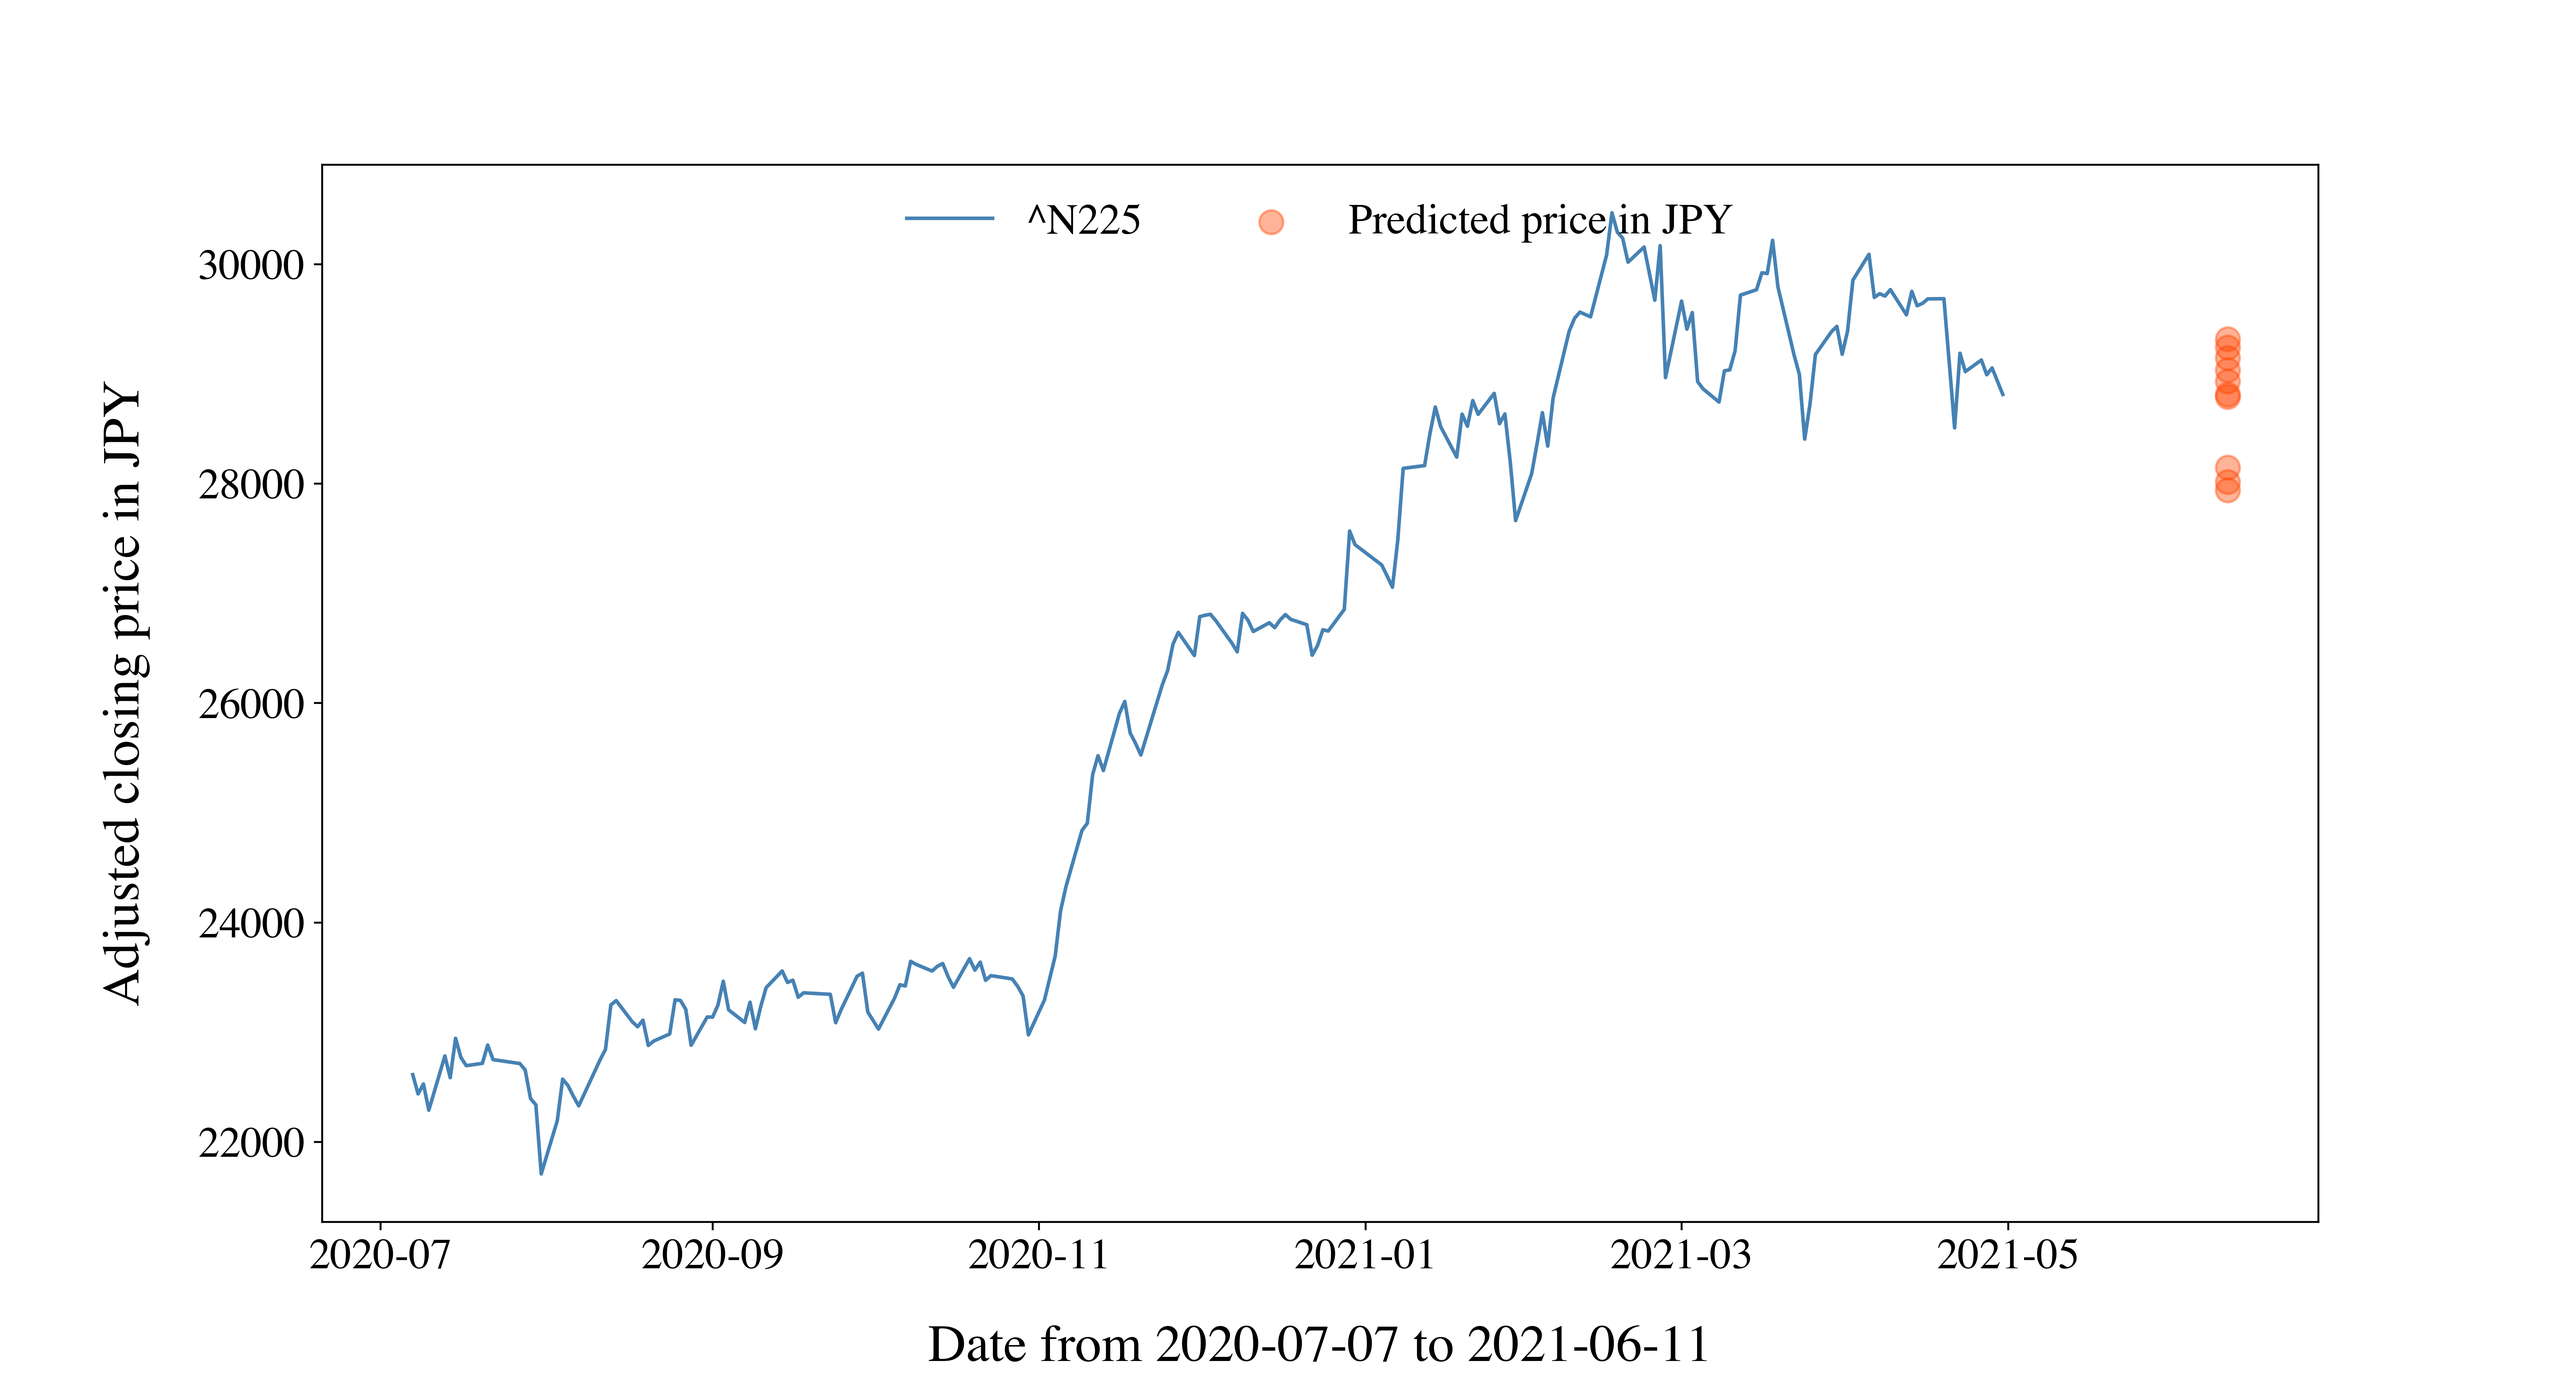
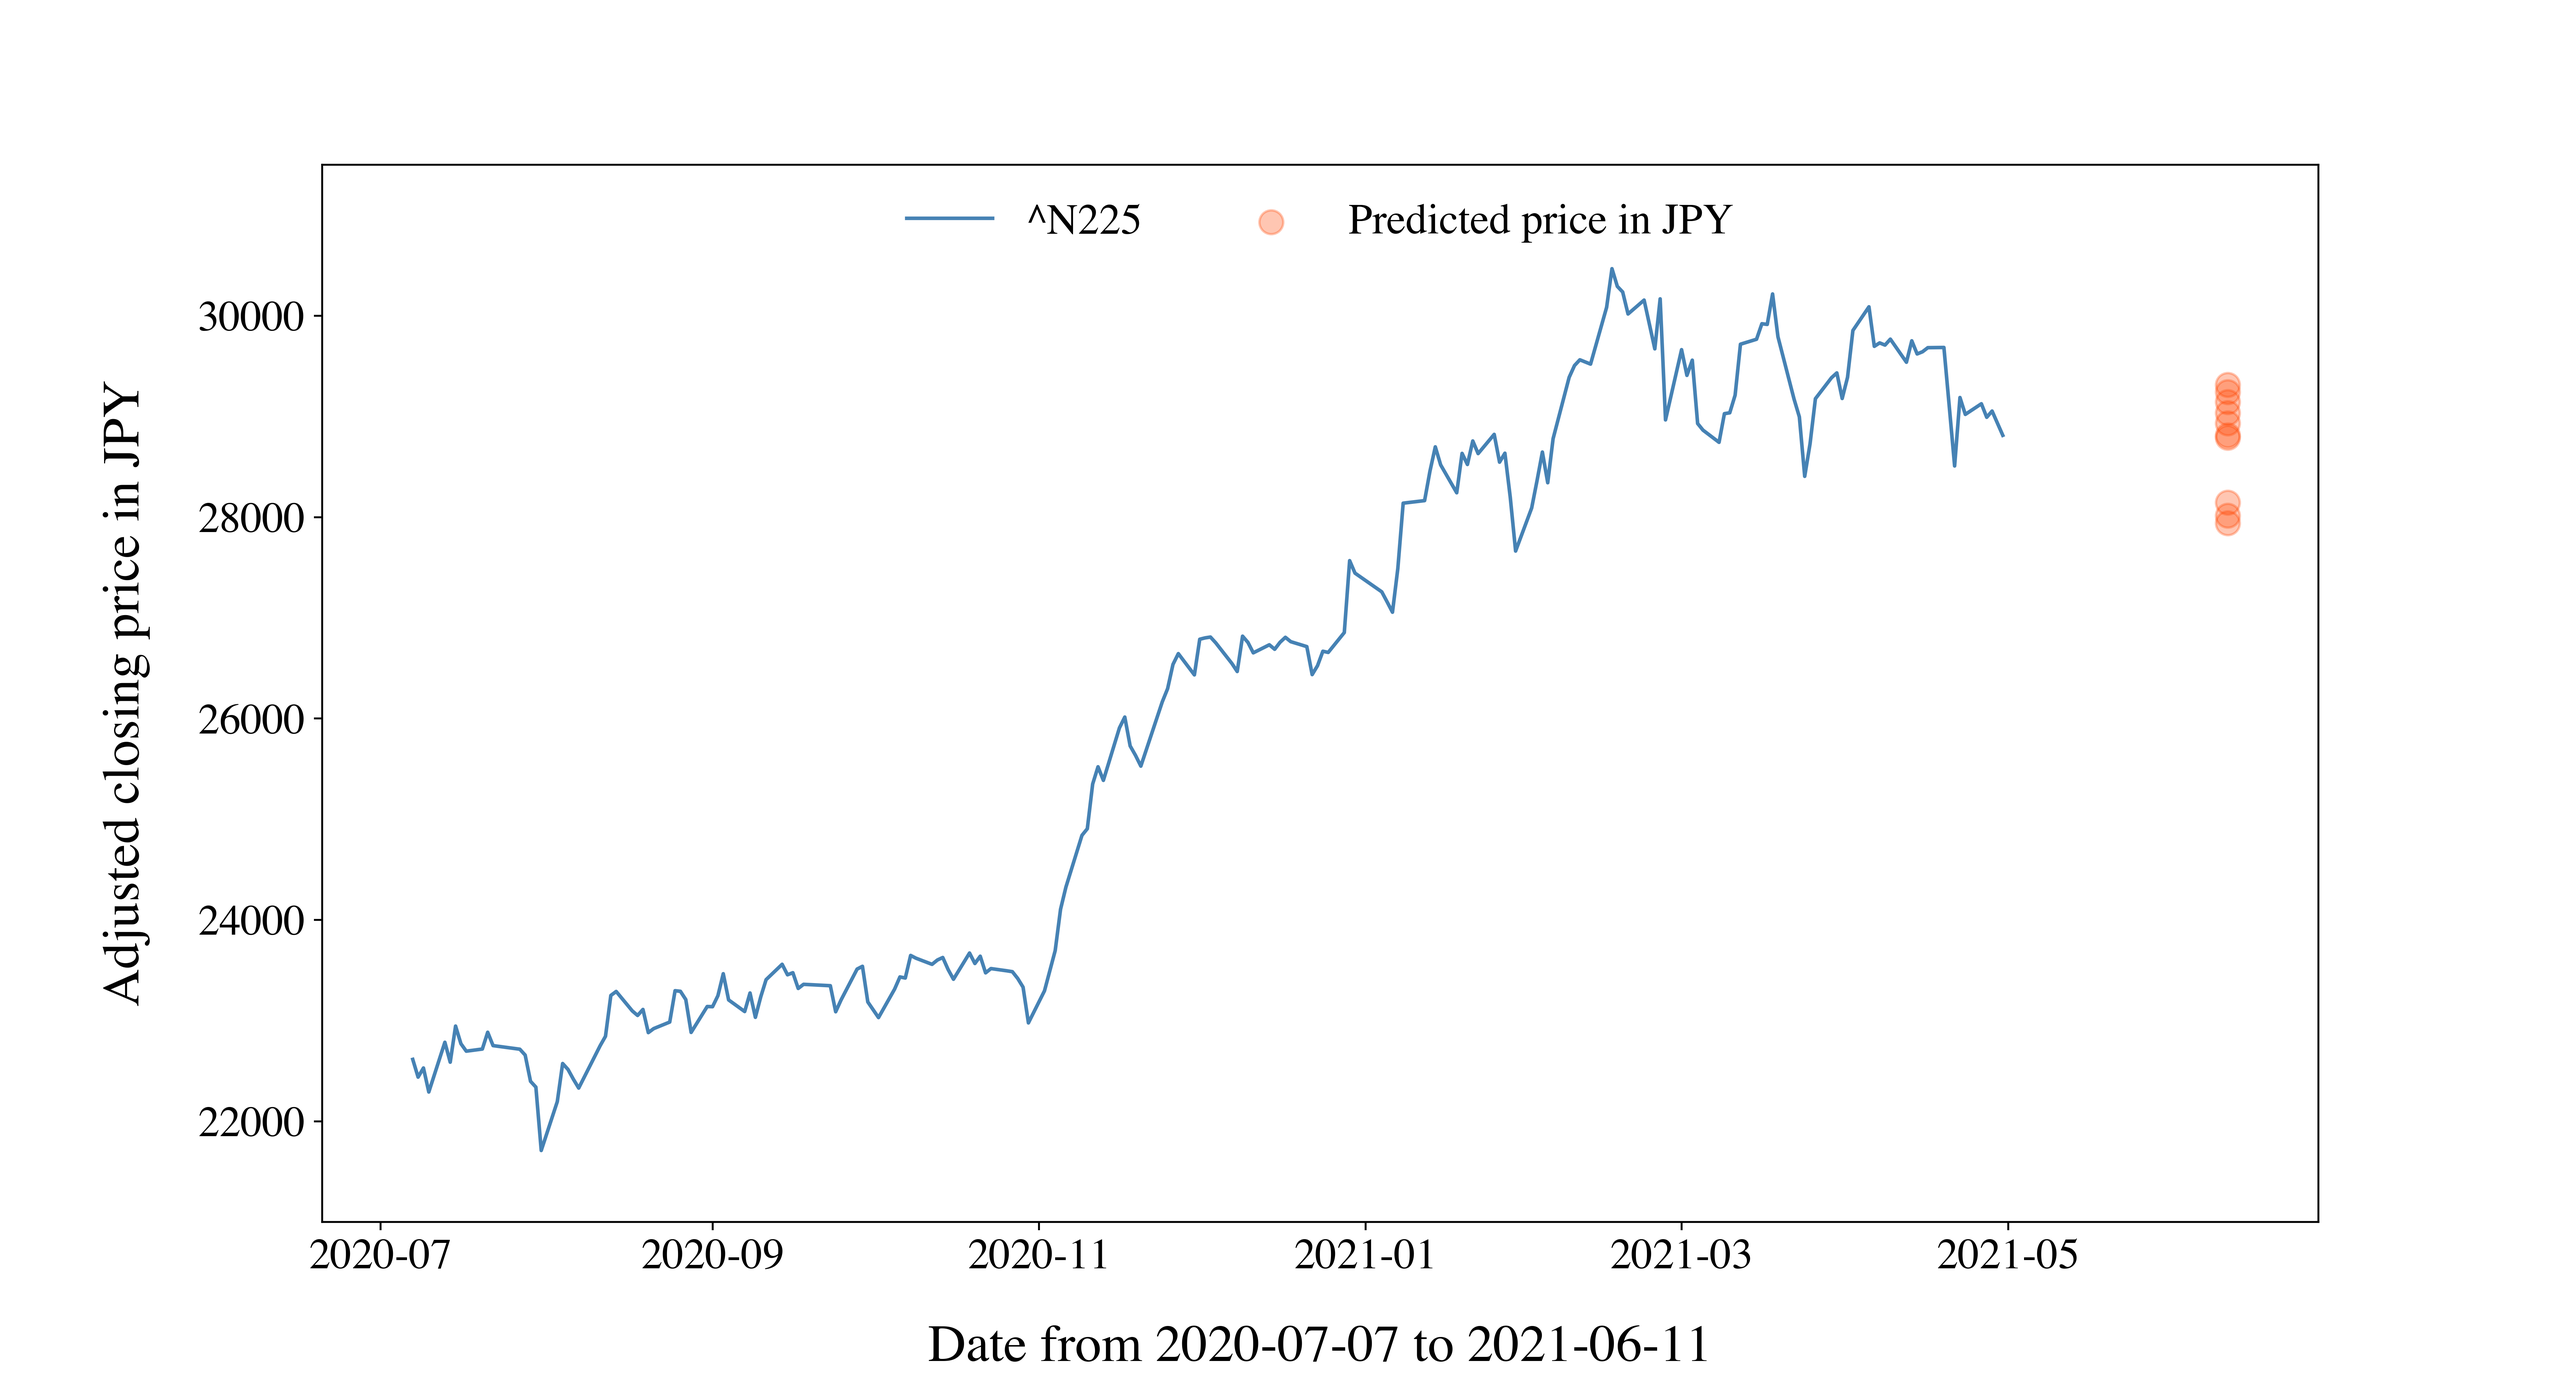
update

diff --git a/Prediction.py b/Prediction.py
@@ -101,20 +101,20 @@ for label in (ax.get_xticklabels() + ax.get_yticklabels()):
    label.set_fontsize(size)
 
 ax.plot(index_data['date'], index_data['adjclose'], c = 'steelblue')
-ax.scatter(x = x_pred_date, y = y_pred_1, c = 'orangered', alpha = 0.4, s = 100)
-ax.scatter(x = x_pred_date, y = y_pred_2, c = 'orangered', alpha = 0.4, s = 100)
-ax.scatter(x = x_pred_date, y = y_pred_3, c = 'orangered', alpha = 0.4, s = 100)
-ax.scatter(x = x_pred_date, y = y_pred_4, c = 'orangered', alpha = 0.4, s = 100)
-ax.scatter(x = x_pred_date, y = y_pred_5, c = 'orangered', alpha = 0.4, s = 100)
-ax.scatter(x = x_pred_date, y = y_pred_6, c = 'orangered', alpha = 0.4, s = 100)
-ax.scatter(x = x_pred_date, y = y_pred_7, c = 'orangered', alpha = 0.4, s = 100)
-ax.scatter(x = x_pred_date, y = y_pred_8, c = 'orangered', alpha = 0.4, s = 100)
-ax.scatter(x = x_pred_date, y = y_pred_9, c = 'orangered', alpha = 0.4, s = 100)
-ax.scatter(x = x_pred_date, y = y_pred_10, c = 'orangered', alpha = 0.4, s = 100)
-ax.scatter(x = x_pred_date, y = 29117.531240121705, c = 'green', s = 50)
+ax.scatter(x = x_pred_date, y = y_pred_1, c = 'orangered', alpha = 0.3, s = 100)
+ax.scatter(x = x_pred_date, y = y_pred_2, c = 'orangered', alpha = 0.3, s = 100)
+ax.scatter(x = x_pred_date, y = y_pred_3, c = 'orangered', alpha = 0.3, s = 100)
+ax.scatter(x = x_pred_date, y = y_pred_4, c = 'orangered', alpha = 0.3, s = 100)
+ax.scatter(x = x_pred_date, y = y_pred_5, c = 'orangered', alpha = 0.3, s = 100)
+ax.scatter(x = x_pred_date, y = y_pred_6, c = 'orangered', alpha = 0.3, s = 100)
+ax.scatter(x = x_pred_date, y = y_pred_7, c = 'orangered', alpha = 0.3, s = 100)
+ax.scatter(x = x_pred_date, y = y_pred_8, c = 'orangered', alpha = 0.3, s = 100)
+ax.scatter(x = x_pred_date, y = y_pred_9, c = 'orangered', alpha = 0.3, s = 100)
+ax.scatter(x = x_pred_date, y = y_pred_10, c = 'orangered', alpha = 0.3, s = 100)
 plt.ylabel("Adjusted closing price in JPY", fontsize = size + 4, labelpad = 20)
 plt.xlabel(f"Date from {start_plot.strftime('%Y-%m-%d')} to {end_plot.strftime('%Y-%m-%d')}", fontsize = size + 4, labelpad = 20)
-plt.legend(['^N225', f'Predicted price in JPY'], loc = 9, frameon = False, ncol = 2, fontsize = size)
+plt.ylim(21000, 31500)
+plt.legend(['^N225', 'Predicted price in JPY'], loc = 9, frameon = False, ncol = 2, fontsize = size)
 
 plt.show()
 
@@ -128,7 +128,34 @@ plt.show()
 
 
 
+# Plot prediction ARMA
+#fig, ax = plt.subplots(figsize = fig_size)
+#for label in (ax.get_xticklabels() + ax.get_yticklabels()):
+#   label.set_fontsize(size)
 
+#ax.plot(index_data['date'], index_data['adjclose'], c = 'steelblue')
+#ax.scatter(x = x_pred_date, y = 29117.5312, c = 'green', s = 50)
+#ax.scatter(x = x_pred_date, y = y_pred_1, c = 'orangered', alpha = 0.3, s = 100)
+#ax.scatter(x = x_pred_date, y = y_pred_2, c = 'orangered', alpha = 0.3, s = 100)
+#ax.scatter(x = x_pred_date, y = y_pred_3, c = 'orangered', alpha = 0.3, s = 100)
+#ax.scatter(x = x_pred_date, y = y_pred_4, c = 'orangered', alpha = 0.3, s = 100)
+#ax.scatter(x = x_pred_date, y = y_pred_5, c = 'orangered', alpha = 0.3, s = 100)
+#ax.scatter(x = x_pred_date, y = y_pred_6, c = 'orangered', alpha = 0.3, s = 100)
+#ax.scatter(x = x_pred_date, y = y_pred_7, c = 'orangered', alpha = 0.3, s = 100)
+#ax.scatter(x = x_pred_date, y = y_pred_8, c = 'orangered', alpha = 0.3, s = 100)
+#ax.scatter(x = x_pred_date, y = y_pred_9, c = 'orangered', alpha = 0.3, s = 100)
+#ax.scatter(x = x_pred_date, y = y_pred_10, c = 'orangered', alpha = 0.3, s = 100)
+#ax.scatter(x = x_pred_date, y = 29117.5312, c = 'green', s = 50)
+#plt.ylabel("Adjusted closing price in JPY", fontsize = size + 4, labelpad = 20)
+#plt.xlabel(f"Date from {start_plot.strftime('%Y-%m-%d')} to {end_plot.strftime('%Y-%m-%d')}", fontsize = size + 4, labelpad = 20)
+#plt.ylim(21000, 31500)
+#plt.legend(['^N225', 'ARMA prediction', 'LSTM predictions'], loc = 9, frameon = False, ncol = 3, fontsize = size)
+
+#plt.show()
+
+# save plot
+#plt.savefig(os.path.join('plots', f'{ticker}_prediction_data_ARMA.png'), dpi = dpi)  
+#plt.close()
 
 
 

diff --git a/ARMA.py b/ARMA.py
@@ -54,7 +54,7 @@ predictions = model_fit.forecast(40)
 print(predictions[0])
 
 
-print(df['adjclose'].iloc[-1])
+#print(df['adjclose'].iloc[-1])
 
 
 x, x_diff = df['adjclose'].iloc[-1], predictions[0]
